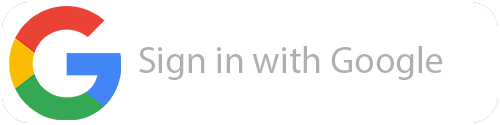
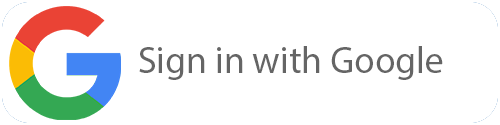
ändrade design på knappar

Changed region(s): [[0.27, 0.36, 0.9, 0.648], [0.42, 0.384, 0.45, 0.408]]

diff --git a/lib/HomePage.dart b/lib/HomePage.dart
@@ -68,7 +68,7 @@ class _HomePageState extends State<HomePage> {
             ),
 
             Container(
-              padding: EdgeInsets.only(bottom: 15),
+              padding: EdgeInsets.only(bottom: 5),
               child: GestureDetector(
                 onTap: () => initiateFacebookLogin(),
                 child: Image.asset('assets/images/googleLoggaKnapp.png',
